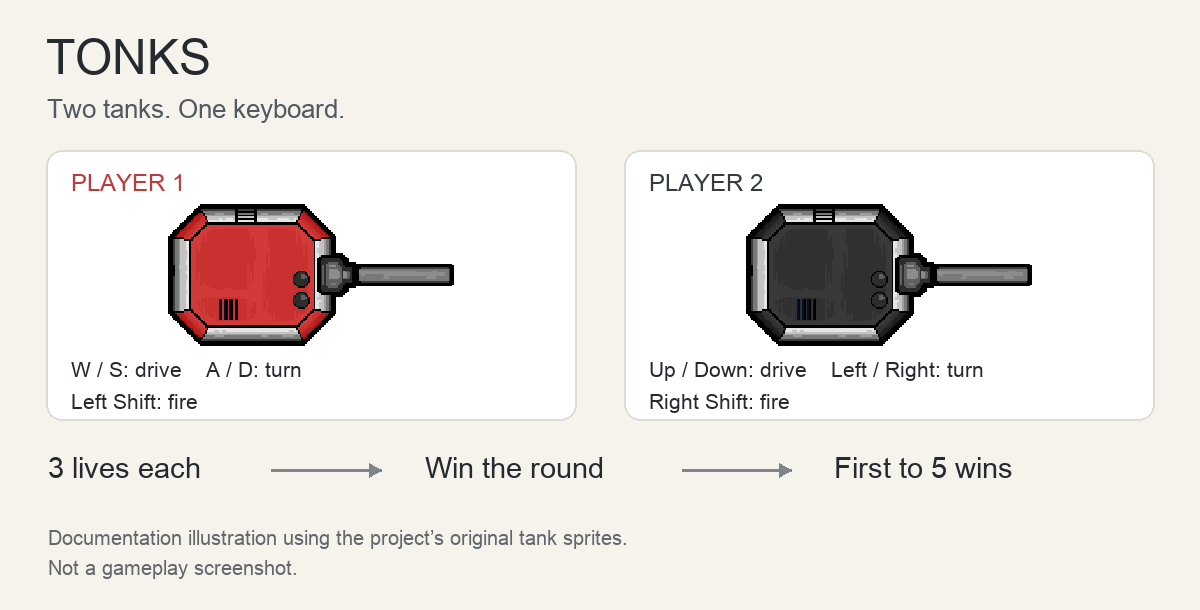
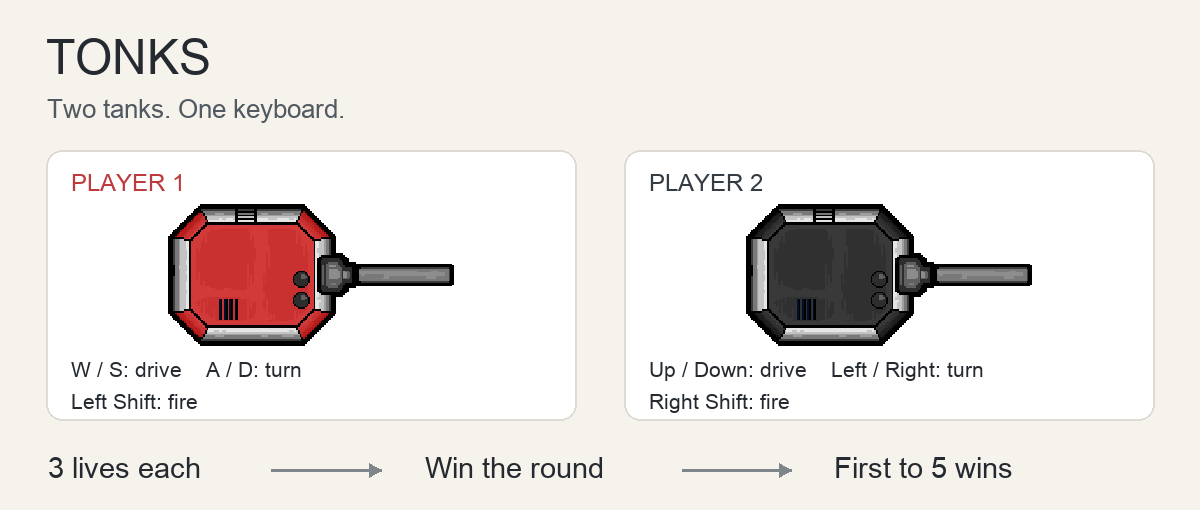
Write standalone project documentation

diff --git a/README.md b/README.md
@@ -2,9 +2,9 @@
 
 TONKS is a local two-player tank game built in Unity. Both players share a keyboard and an arena, driving, turning, and firing at each other. Each tank has three lives, and the first player to win five rounds wins the match.
 
-![TONKS controls and round structure, illustrated with the original tank sprites](docs/tonks-overview.png)
+![TONKS controls and round structure, illustrated with the game's tank sprites](docs/tonks-overview.png)
 
-*A documentation illustration using the project's tank sprites, not a gameplay screenshot.*
+*Controls and round structure, illustrated with the game's tank sprites.*
 
 ## Motivation
 
